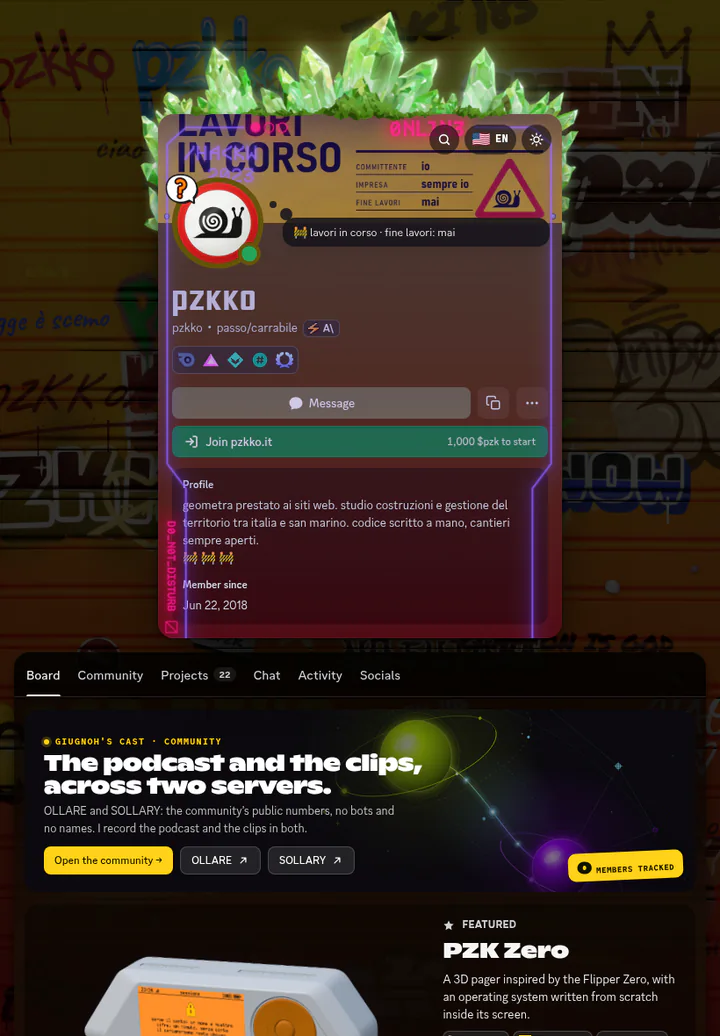
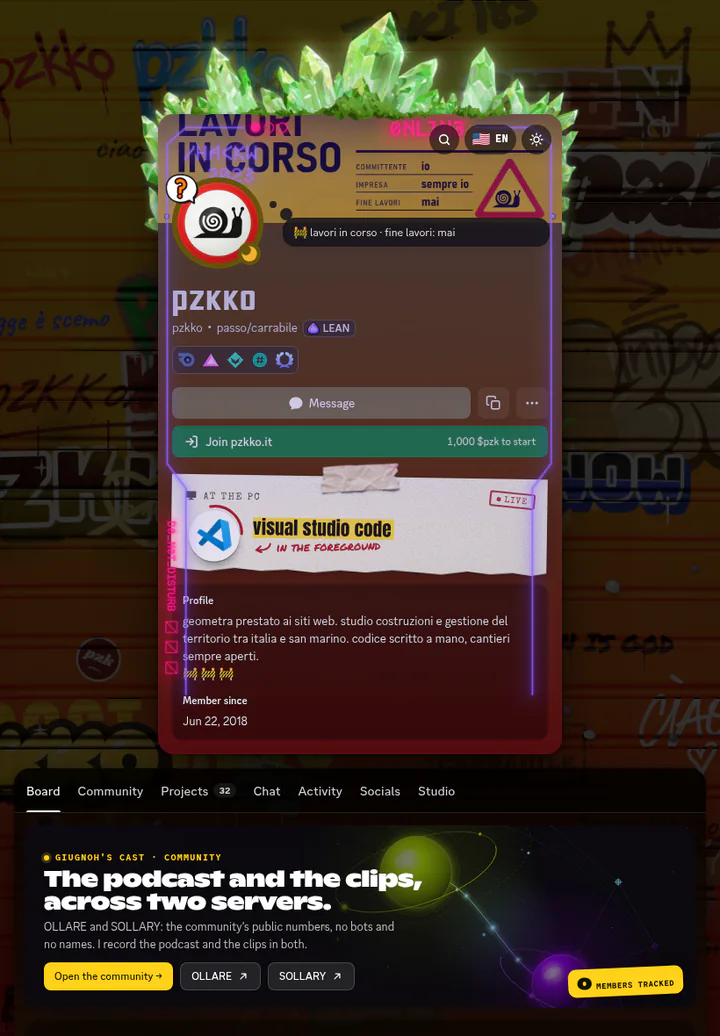
Catture aggiornate: Alberto Pecchini, pzkko
Rifatte da .github/workflows/catture.yml: il sito online era cambiato.

Changed region(s): [[0.0, 0.4324, 1.0, 1.0], [0.4278, 0.3089, 0.4889, 0.3398], [0.3361, 0.2162, 0.3667, 0.278]]

diff --git a/albertopecchini.it/src/data/catture.js b/albertopecchini.it/src/data/catture.js
@@ -6,7 +6,7 @@
 export const catture = {
   'ap-desktop-tall.webp': { w: 1200, h: 2833, v: 'd4347858' },
   'ap-desktop.webp': { w: 1200, h: 750, v: '8db0263b' },
-  'ap-iphone-01.webp': { w: 804, h: 4312, v: 'b1007cbf' },
+  'ap-iphone-01.webp': { w: 804, h: 4312, v: '2c5b5511' },
   'ap-iphone-02.webp': { w: 804, h: 4312, v: '69ca6e02' },
   'ap-iphone-03.webp': { w: 804, h: 4312, v: 'd21e72f4' },
   'ap-iphone-04.webp': { w: 804, h: 4312, v: '70c268bc' },
@@ -37,9 +37,9 @@ export const catture = {
   'pzk-bologna-m.webp': { w: 540, h: 720, v: 'ae6d59d0' },
   'pzk-bologna.webp': { w: 1080, h: 1440, v: '4cc7cd1d' },
   'pzk-casino-mobile.webp': { w: 600, h: 1298, v: '8e037056' },
-  'pzk-chat-tablet.webp': { w: 720, h: 960, v: '9a0428ba' },
-  'pzk-desktop.webp': { w: 1200, h: 750, v: '422a45c1' },
-  'pzk-mobile.webp': { w: 600, h: 1298, v: '39600288' },
-  'pzk-progetti-desktop.webp': { w: 1200, h: 750, v: '80e7e812' },
-  'pzk-tablet.webp': { w: 720, h: 1036, v: '5d2b53a6' },
+  'pzk-chat-tablet.webp': { w: 720, h: 960, v: '4ea42ad5' },
+  'pzk-desktop.webp': { w: 1200, h: 750, v: 'cf99efd7' },
+  'pzk-mobile.webp': { w: 600, h: 1298, v: '4088a7fb' },
+  'pzk-progetti-desktop.webp': { w: 1200, h: 750, v: '381b1ae3' },
+  'pzk-tablet.webp': { w: 720, h: 1036, v: '68c32417' },
 }
